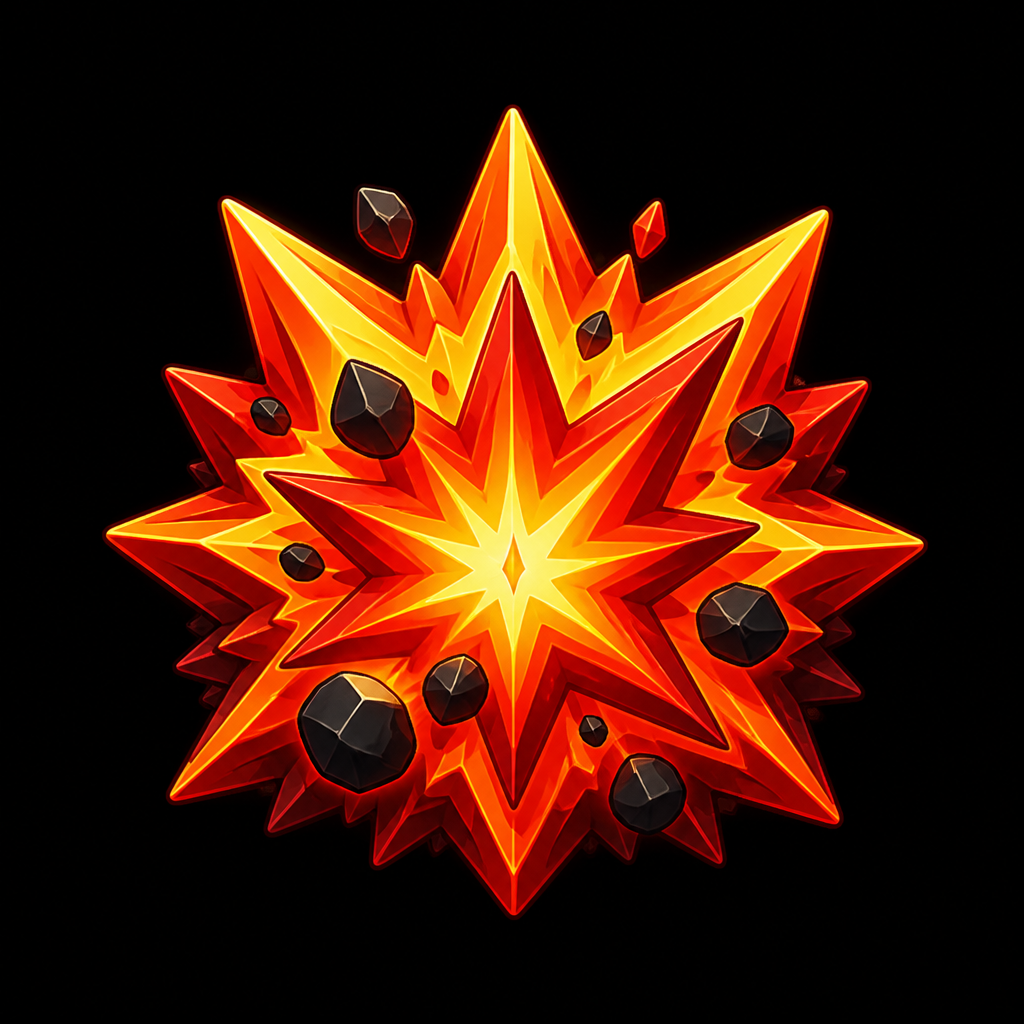
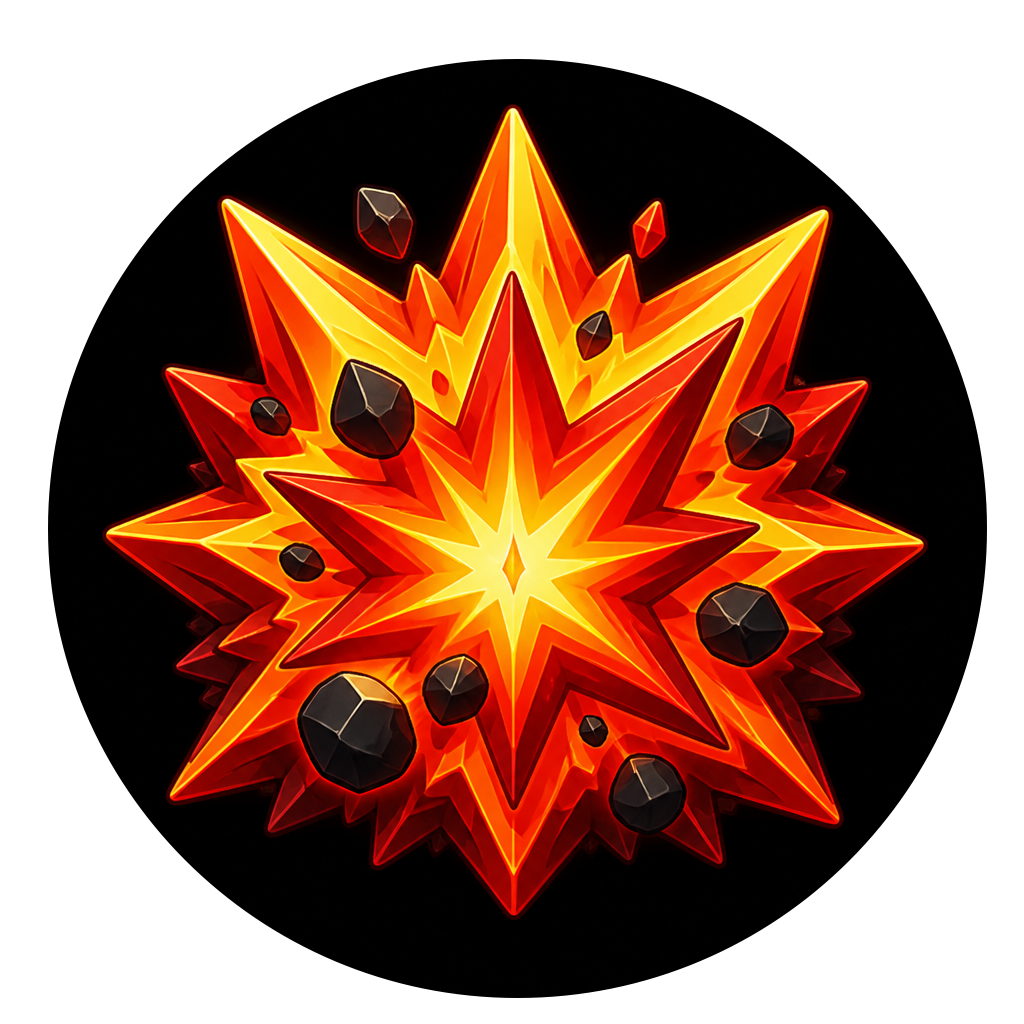
Smoother probing, pushover

diff --git a/frontend/src/App.tsx b/frontend/src/App.tsx
@@ -64,8 +64,16 @@ type AppErrorBoundaryState = {
 
 type PointerStart = {
   point: BoardPoint;
+  board: BoardSize;
   startedAt: number;
   maxMovement: number;
+};
+
+type TrailPoint = {
+  x: number;
+  y: number;
+  id: number;
+  timestamp: number;
 };
 
 class AppErrorBoundary extends Component<AppErrorBoundaryProps, AppErrorBoundaryState> {
@@ -631,8 +639,38 @@ function BoardShell({
   const lastFeedbackAtRef = useRef(0);
   const audioContextRef = useRef<AudioContext | null>(null);
   const [proximityIntensity, setProximityIntensity] = useState(0);
-  const [hoverCell, setHoverCell] = useState<CellCoord | null>(null);
+  const [hoverPoint, setHoverPoint] = useState<BoardPoint | null>(null);
+  const [activeLevelId, setActiveLevelId] = useState<string>(level.id);
+  const [trail, setTrail] = useState<TrailPoint[]>([]);
+  const [probedCells, setProbedCells] = useState<CellCoord[]>([]);
   const active = level.status === "active";
+
+  if (activeLevelId !== level.id) {
+    setActiveLevelId(level.id);
+    setTrail([]);
+    setProbedCells([]);
+  }
+
+  useEffect(() => {
+    if (trail.length === 0) {
+      return;
+    }
+    const interval = setInterval(() => {
+      const now = performance.now();
+      setTrail((prev) => {
+        const next = prev.filter((p) => {
+          return now - p.timestamp < 800;
+        });
+        if (next.length === prev.length) {
+          return prev;
+        }
+        return next;
+      });
+    }, 100);
+    return () => {
+      clearInterval(interval);
+    };
+  }, [trail.length]);
 
   function updateProximity(intensity: number) {
     setProximityIntensity(intensity);
@@ -650,8 +688,10 @@ function BoardShell({
 
     event.currentTarget.setPointerCapture(event.pointerId);
     const point = eventPoint(event);
+    const board = eventBoard(event);
     pointerStartRef.current = {
       point,
+      board,
       startedAt: event.timeStamp,
       maxMovement: 0,
     };
@@ -680,19 +720,27 @@ function BoardShell({
     pointerStartRef.current = null;
     updateProximity(0);
 
-    const cell = eventCell(event, point, level);
+    const cell = pointToCell(start.point, start.board, level.config);
     const duration = event.timeStamp - start.startedAt;
     const tapped = start.maxMovement <= TAP_MOVEMENT_THRESHOLD_PX && duration <= TAP_DURATION_THRESHOLD_MS;
     if (tapped && !containsCell(level.markedCells, cell)) {
       playSoundEffect("mark", settings.audioEnabled);
+      if (settings.hapticsEnabled && "vibrate" in navigator) {
+        try {
+          navigator.vibrate(30);
+        } catch {
+          // vibrate blocked by browser policy
+        }
+      }
       onMarkCell(cell);
     }
+    setHoverPoint(null);
   }
 
   function handlePointerCancel() {
     pointerStartRef.current = null;
     updateProximity(0);
-    setHoverCell(null);
+    setHoverPoint(null);
   }
 
   function handlePointerProbe(event: PointerEvent<HTMLDivElement>, point: BoardPoint, allowCollision: boolean) {
@@ -701,7 +749,7 @@ function BoardShell({
     const collision = resolveDragCollision(cell, level.mines, level.markedCells);
     if (allowCollision && collision.exploded && collision.cell) {
       pointerStartRef.current = null;
-      setHoverCell(collision.cell);
+      setHoverPoint(null);
       updateProximity(1);
       runFeedback(1, settings, audioContextRef, lastFeedbackAtRef, true);
       onExplodeCell(collision.cell);
@@ -709,7 +757,30 @@ function BoardShell({
     }
 
     const proximity = computeProximity(point, board, level.config, level.mines, level.markedCells);
-    setHoverCell(cell);
+
+    setProbedCells((prev) => {
+      if (containsCell(prev, cell)) {
+        return prev;
+      }
+      return [...prev, cell];
+    });
+
+    const normalized = {
+      x: point.x / board.width,
+      y: point.y / board.height,
+    };
+    setHoverPoint(normalized);
+    
+    const now = performance.now();
+    setTrail((prev) => {
+      return [
+        ...prev.filter((p) => {
+          return now - p.timestamp < 800;
+        }),
+        { x: normalized.x, y: normalized.y, id: now, timestamp: now },
+      ];
+    });
+
     updateProximity(proximity.intensity);
     runFeedback(proximity.intensity, settings, audioContextRef, lastFeedbackAtRef, false);
   }
@@ -751,13 +822,48 @@ function BoardShell({
           outlineOffset: "-1px",
         }}
       >
-        {hoverCell && settings.visualFallbackEnabled && active && (
+        {active && trail.map((p) => {
+          return (
+            <div
+              key={p.id}
+              className="animate-trail pointer-events-none absolute h-2 w-2 rounded-full bg-emerald-400/80 shadow-[0_0_8px_rgba(52,211,153,0.9)]"
+              style={{
+                left: `${p.x * 100}%`,
+                top: `${p.y * 100}%`,
+              }}
+            />
+          );
+        })}
+        {active && probedCells.map((cell) => {
+          return (
+            <div
+              key={`probed:${cell.row}:${cell.col}`}
+              className="pointer-events-none absolute border border-white/[0.015] bg-emerald-500/[0.012]"
+              style={cellSlotStyle(cell, level.config)}
+            />
+          );
+        })}
+        {hoverPoint && settings.visualFallbackEnabled && active && (
           <div
             aria-hidden="true"
-            className="pointer-events-none absolute flex items-center justify-center transition-all duration-75"
-            style={cellSlotStyle(hoverCell, level.config)}
+            className="pointer-events-none absolute flex items-center justify-center"
+            style={{
+              left: `${hoverPoint.x * 100}%`,
+              top: `${hoverPoint.y * 100}%`,
+              width: `calc(100% / ${level.config.cols})`,
+              height: `calc(100% / ${level.config.rows})`,
+              transform: `translate(-50%, -50%) scale(${1 - proximityIntensity * 0.45})`,
+            }}
           >
-            <div className="aspect-square w-full max-h-full rounded-full bg-white/[0.06]" />
+            <div
+              className="aspect-square h-full max-w-full rounded-full transition-colors duration-75"
+              style={{
+                backgroundColor: `rgba(${Math.round(255 - proximityIntensity * 239)}, ${Math.round(255 - proximityIntensity * 70)}, ${Math.round(255 - proximityIntensity * 126)}, ${0.06 + proximityIntensity * 0.34})`,
+                boxShadow: proximityIntensity > 0.05
+                  ? `0 0 ${Math.round(4 + proximityIntensity * 18)}px rgba(52, 211, 153, ${0.1 + proximityIntensity * 0.7})`
+                  : undefined,
+              }}
+            />
           </div>
         )}
         {level.explosionCell && (
@@ -766,8 +872,8 @@ function BoardShell({
             className="pointer-events-none absolute flex items-center justify-center"
             style={cellSlotStyle(level.explosionCell, level.config)}
           >
-            <div className="relative flex aspect-square w-full max-h-full items-center justify-center">
-              <div className="absolute -inset-[20%] rounded-full bg-red-950/60" />
+            <div className="relative flex aspect-square h-full max-w-full items-center justify-center">
+              <div className="absolute -inset-[20%] rounded-full" style={{ background: "radial-gradient(circle, rgba(127,7,7,0.7) 0%, rgba(127,7,7,0.3) 50%, transparent 75%)" }} />
               <img
                 alt=""
                 className="relative z-10 h-full w-full object-contain"
@@ -900,10 +1006,6 @@ function eventPoint(event: PointerEvent<HTMLDivElement>): BoardPoint {
 function eventBoard(event: PointerEvent<HTMLDivElement>): BoardSize {
   const rect = event.currentTarget.getBoundingClientRect();
   return { width: rect.width, height: rect.height };
-}
-
-function eventCell(event: PointerEvent<HTMLDivElement>, point: BoardPoint, level: LevelState): CellCoord {
-  return pointToCell(point, eventBoard(event), level.config);
 }
 
 function distancePx(a: BoardPoint, b: BoardPoint): number {

diff --git a/frontend/src/styles.css b/frontend/src/styles.css
@@ -11,3 +11,18 @@ body {
   min-height: 100vh;
   background: #000;
 }
+
+@keyframes trail-fade-out {
+  0% {
+    opacity: 0.55;
+    transform: translate(-50%, -50%) scale(1.1);
+  }
+  100% {
+    opacity: 0;
+    transform: translate(-50%, -50%) scale(0.25);
+  }
+}
+
+.animate-trail {
+  animation: trail-fade-out 0.8s forwards cubic-bezier(0.1, 0.8, 0.25, 1);
+}
